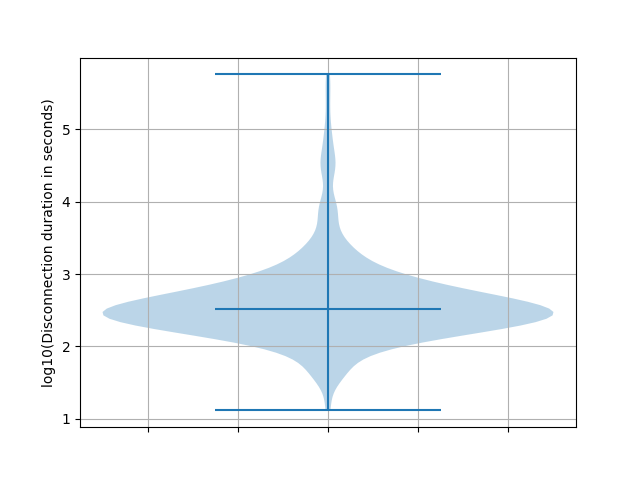
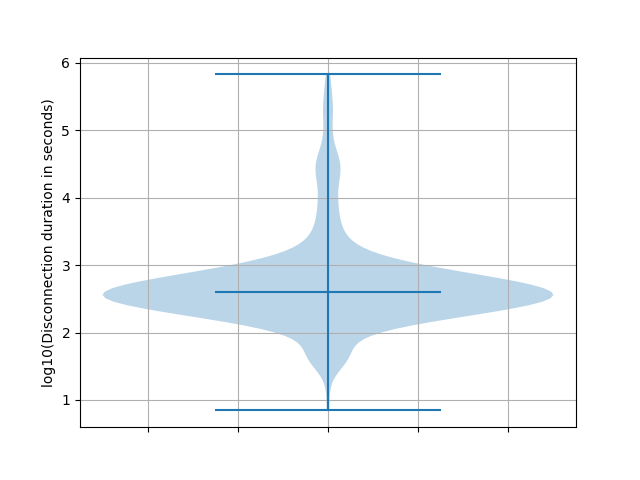
plot script

diff --git a/atlas_outage_plot.py b/atlas_outage_plot.py
@@ -2,6 +2,7 @@
 import json
 import requests
 import time
+import sys
 from ripe.atlas.cousteau import ProbeRequest
 from collections import defaultdict
 from bisect import bisect_right
@@ -83,18 +84,26 @@ def plot_disco_time(disco_event):
     plt.close(fig)
 
 if __name__ == "__main__":
-    start_time = '1520630104'
-    #start_time = '1518363868'
+    cc = str(sys.argv[1])
+    #start_time = '1520630104'
+    start_time = '1523905107'
     end_time = time.time()
-    cc = 'LB'
-    #cc = 'BE'
     conn_event, disco_event = get_events(cc,start_time,end_time)
+    conn_event_json = json.dumps(conn_event)
+    disco_event_json = json.dumps(disco_event)
     disco_duration = analyze_events(conn_event,disco_event,start_time)
-    #plot_disco_duration(disco_duration,cc)
-    #plot_disco_time(disco_event)
-    print(disco_duration)
     disco_duration_json = json.dumps(disco_duration)
-    f = open("disco_duration_{}.json".format(cc),"w")
+
+    plot_disco_duration(disco_duration,cc)
+    plot_disco_time(disco_event)
+
+    f = open("conn_event_{}_{}_{}.json".format(cc,start_time,end_time),"w")
+    f.write(conn_event_json)
+    f.close()
+    f = open("disco_event_{}_{}_{}.json".format(cc,start_time,end_time),"w")
+    f.write(disco_event_json)
+    f.close()
+    f = open("disco_duration_{}_{}_{}.json".format(cc,start_time,end_time),"w")
     f.write(disco_duration_json)
     f.close()
     

diff --git a/atlas_outage.py b/atlas_outage.py
@@ -56,7 +56,7 @@ def analyze_events(conn_event,disco_event,start_time):
 if __name__ == "__main__":
     cc = str(sys.argv[1])
     #start_time = '1520630104'
-    start_time = '1518363868'
+    start_time = '1523905107'
     end_time = time.time()
     conn_event, disco_event = get_events(cc,start_time,end_time)
     conn_event_json = json.dumps(conn_event)
